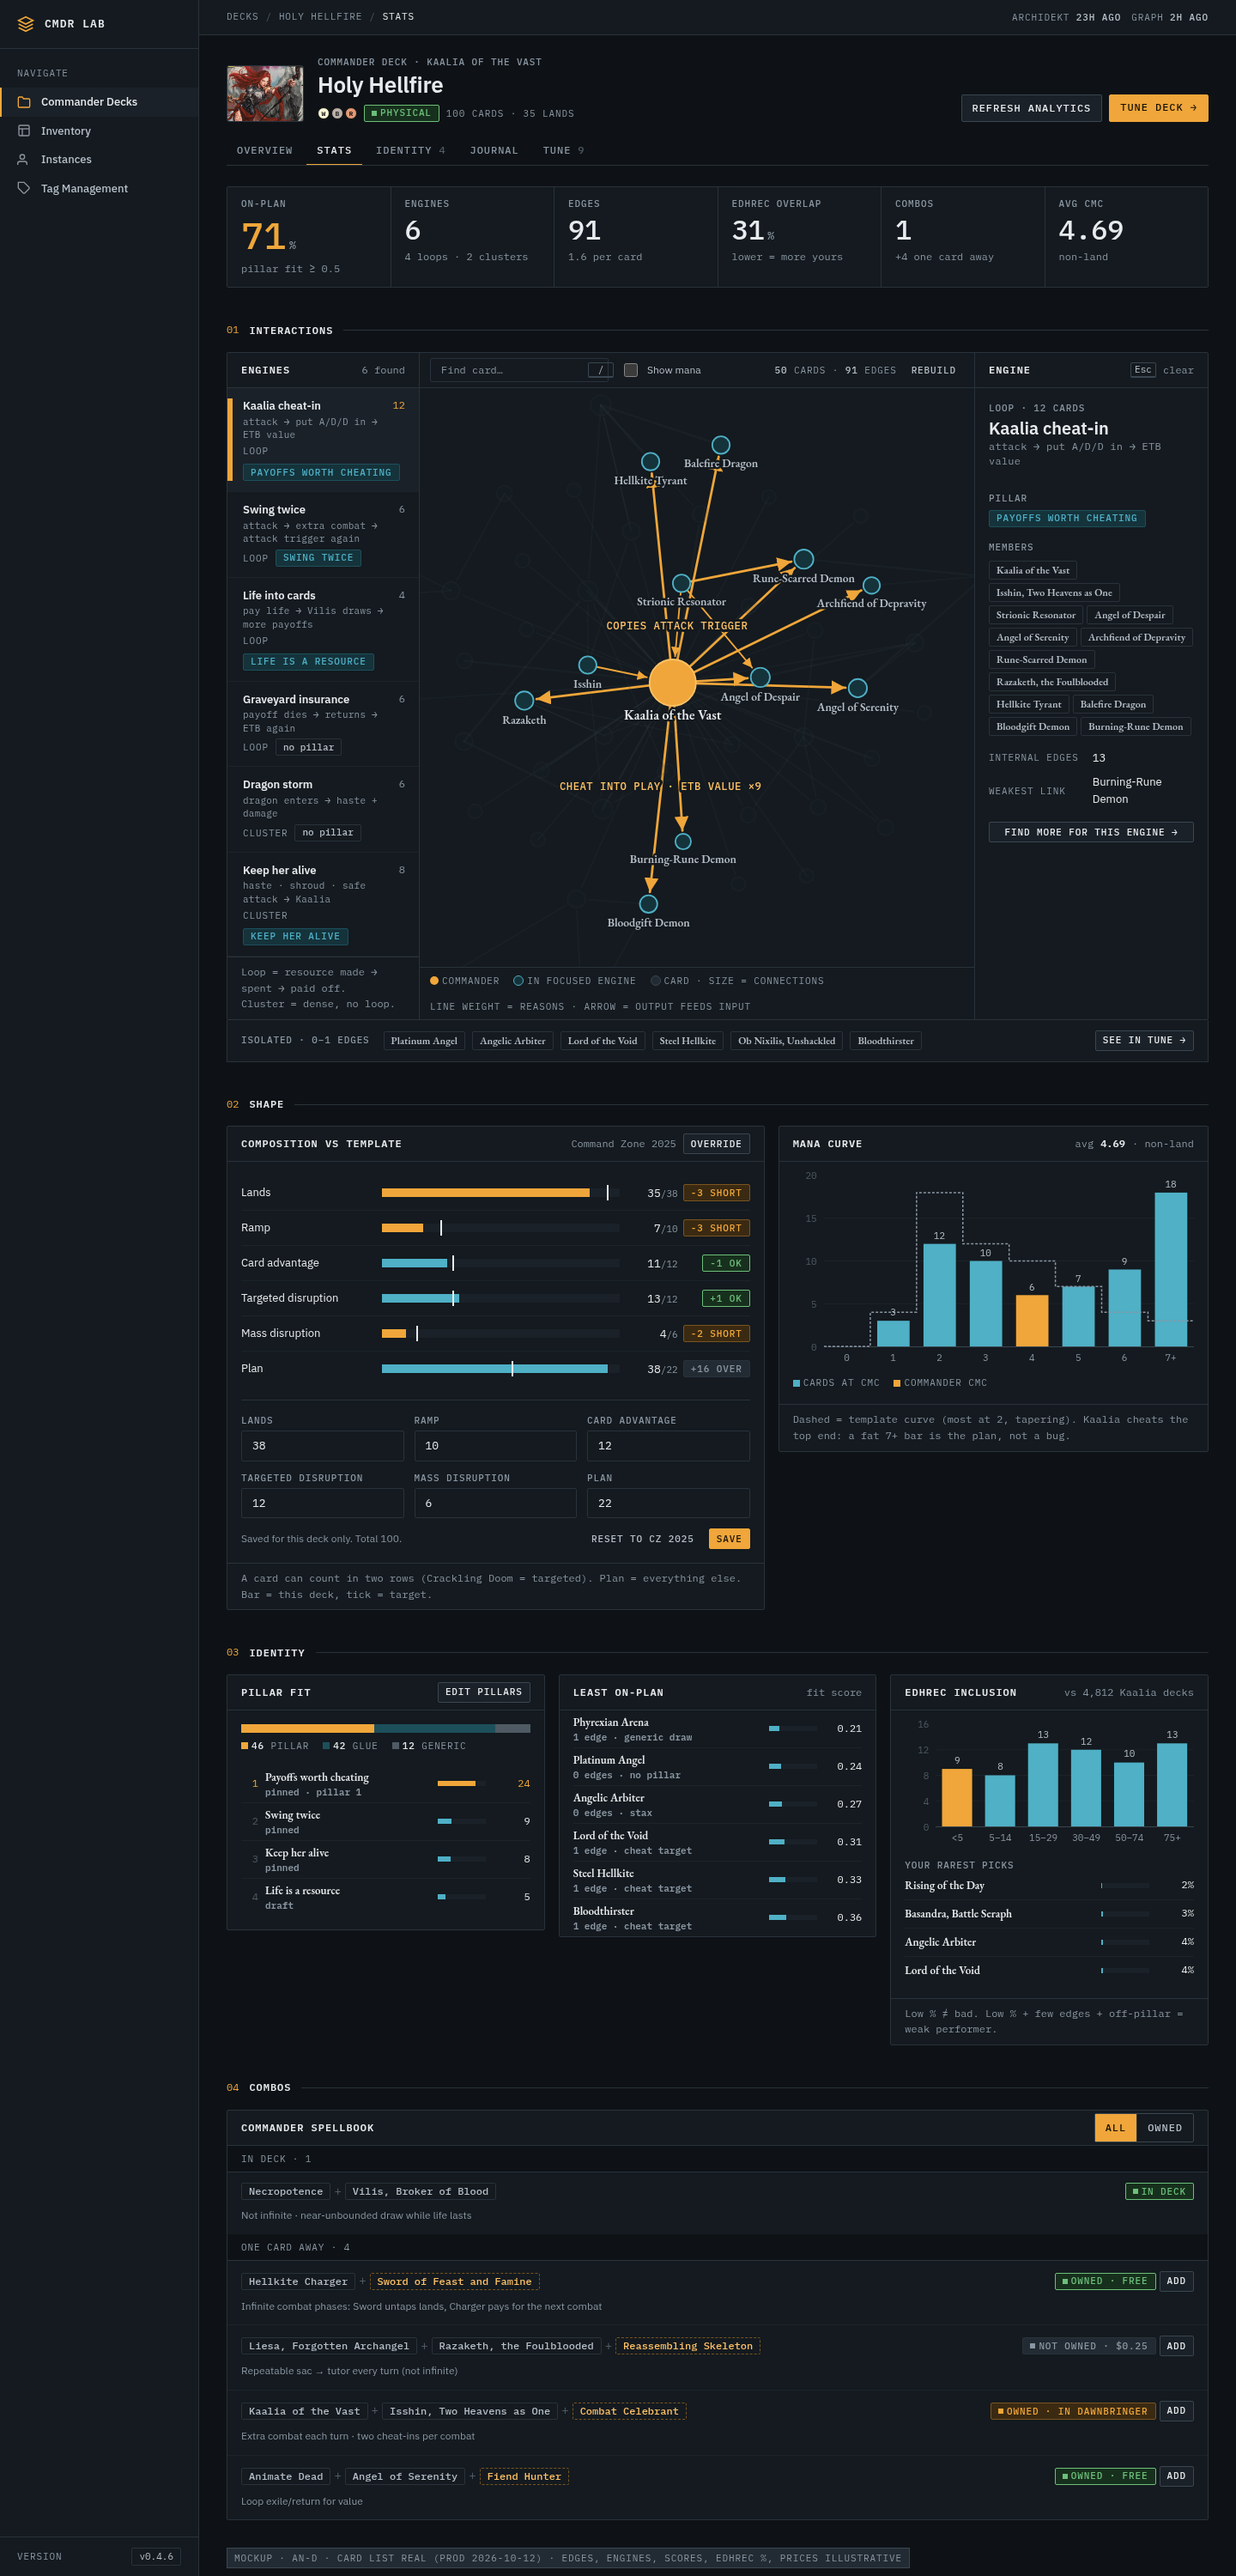
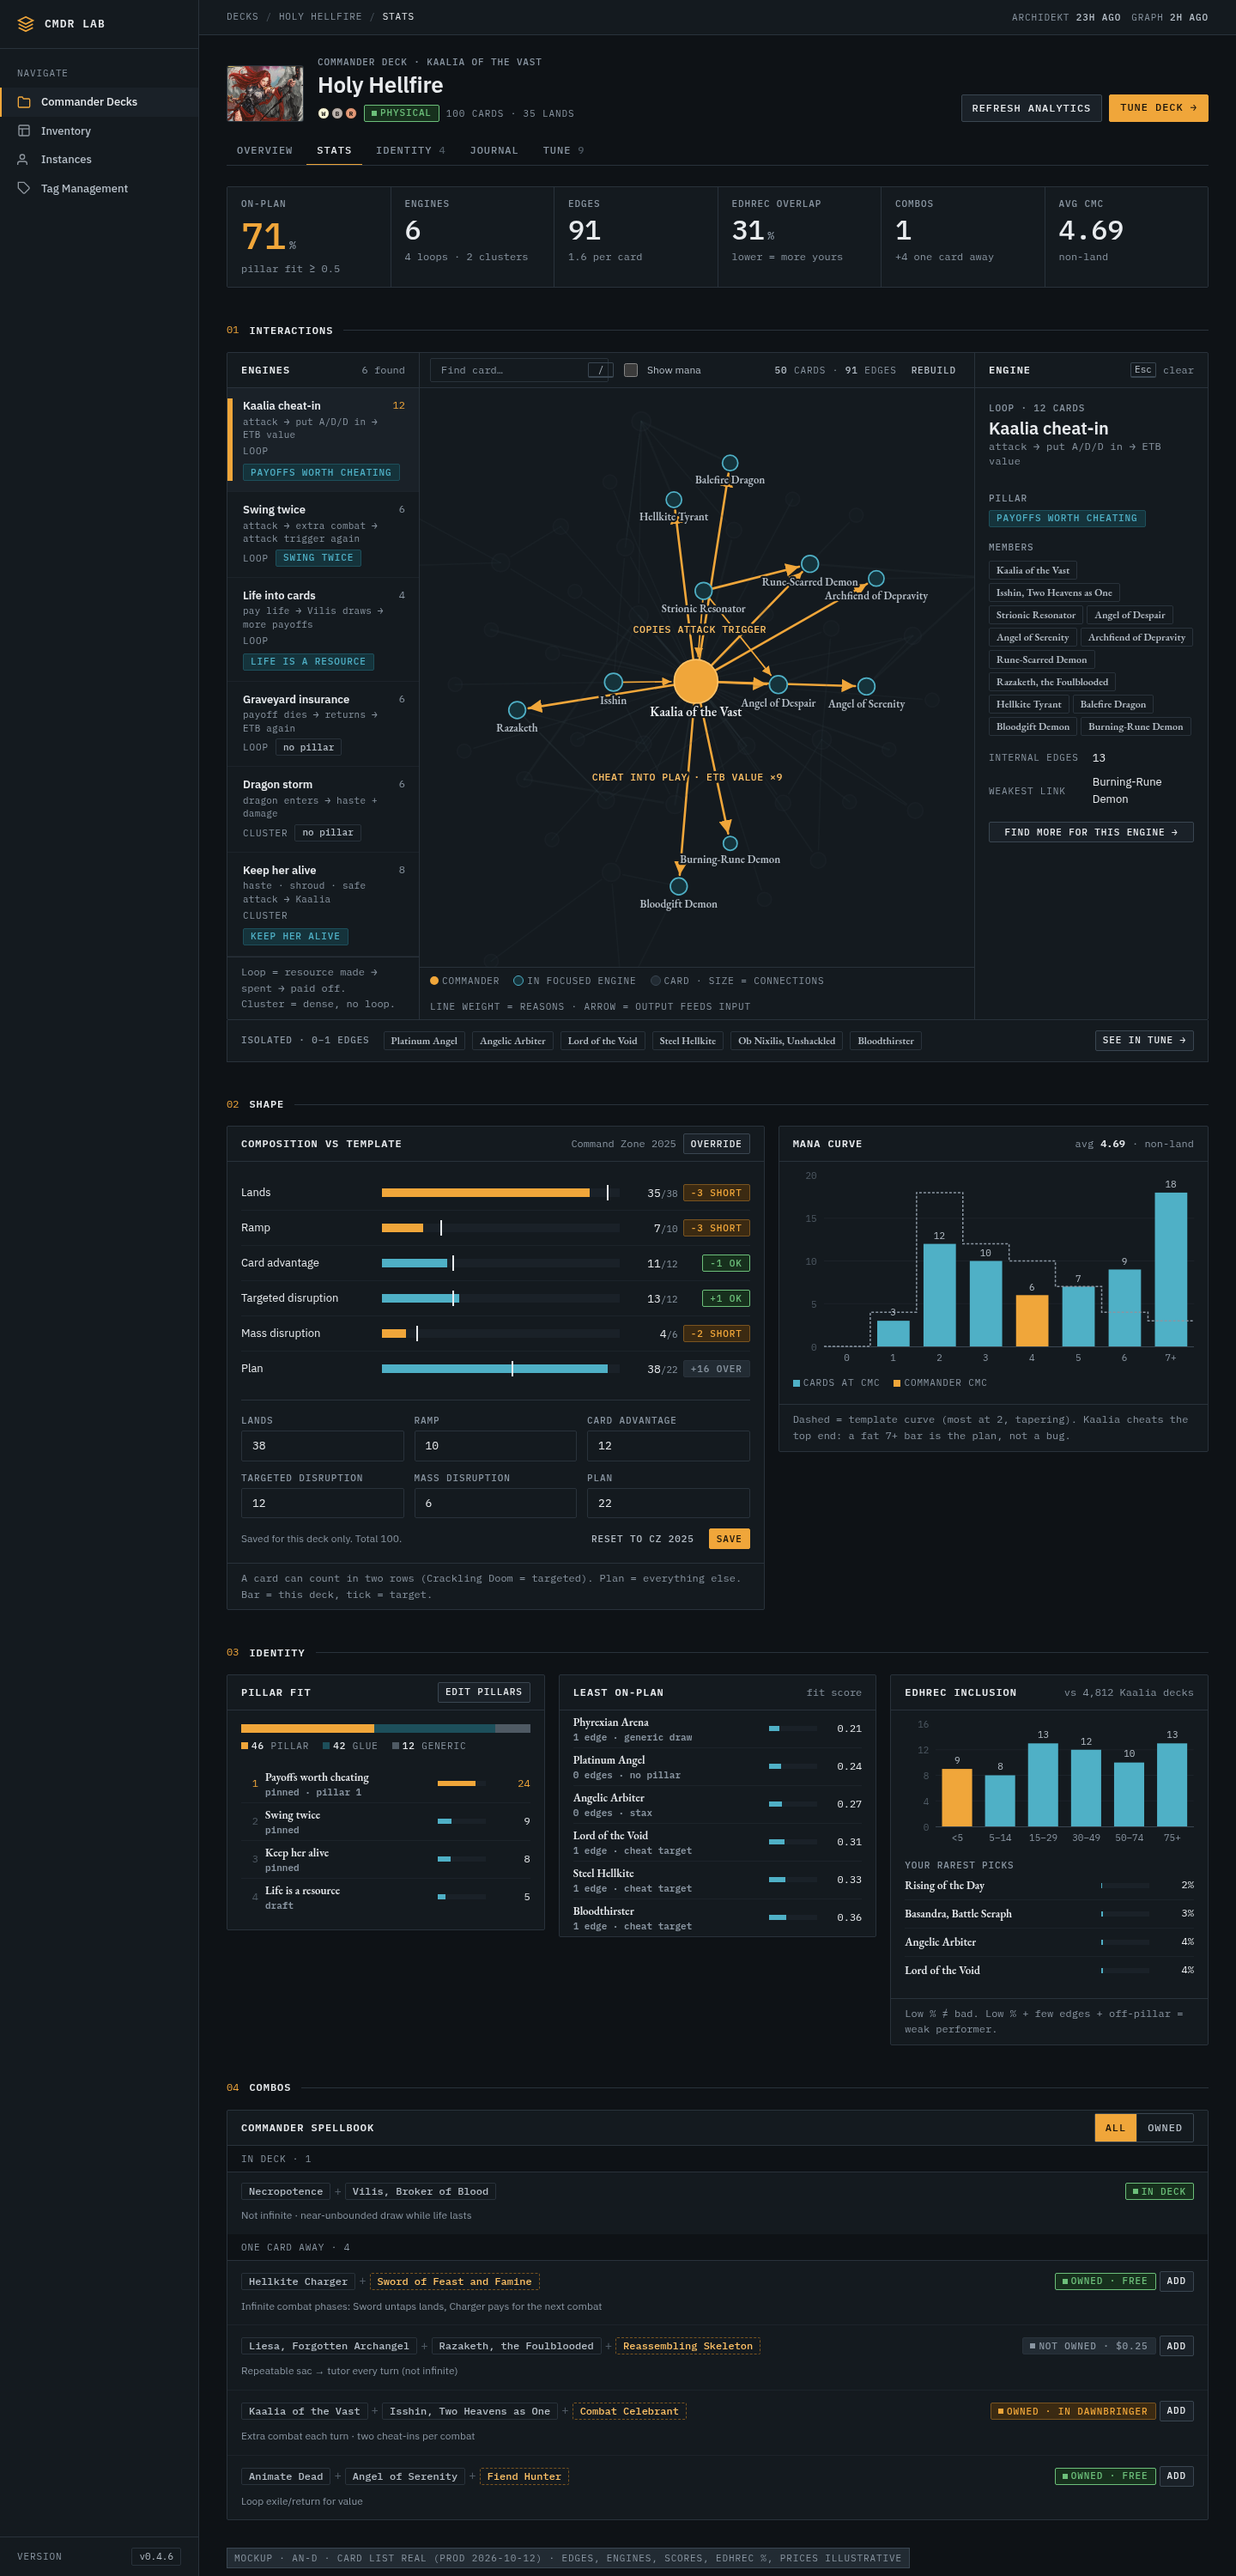
docs(design): AN-D: address review (WBR-legal tuner picks, D5 gap rule shown, hard-cap copy, degree = distinct neighbours, single-Esc clear, phone list follows engine, 1380 breakpoint, aria-live progress, win-con More…)

Changed region(s): [[0.4062, 0.155, 0.7188, 0.372]]

diff --git a/docs/design/analytics/stats.html b/docs/design/analytics/stats.html
@@ -15,7 +15,7 @@
     .graph-list { display: none; }
     .graph-list ol { list-style: none; margin: 0; padding: 0; }
     .graph-list li { padding: var(--sp-3) var(--sp-4); border-bottom: var(--stroke-faint); }
-    @media (max-width: 1180px) { .stats-row--3 { grid-template-columns: minmax(0, 1fr) minmax(0, 1fr); } .stats-row--3 > :last-child { grid-column: 1 / -1; } }
+    @media (max-width: 1380px) { .stats-row--3 { grid-template-columns: minmax(0, 1fr) minmax(0, 1fr); } .stats-row--3 > :last-child { grid-column: 1 / -1; } }
     @media (max-width: 900px) { .stats-row, .stats-row--3 { grid-template-columns: minmax(0, 1fr); } .stats-row--3 > :last-child { grid-column: auto; } }
 </style>
 </head>
@@ -160,7 +160,9 @@
         M.ENGINES = [{ id: "hub", name: hub.split(",")[0] + " hub", flow: "(real data · engines not detected yet)", kind: "cluster", pillar: null, cards: mem }].concat(M.ENGINES.slice(1, 1));
         document.querySelector(".hud-graph-toolbar .hud-freshness").innerHTML = "<b>" + Object.keys(dg).length + "</b> cards · <b>" + es.length + "</b> edges · REAL AN-1 data";
     }
-    var deg = {}; M.EDGES.forEach(function (e) { deg[e[0]] = (deg[e[0]] || 0) + e[2].length; deg[e[1]] = (deg[e[1]] || 0) + e[2].length; });
+    // degree = DISTINCT neighbours (what "N connections" means); edge WIDTH carries reasons.
+    var nb = {}; M.EDGES.forEach(function (e) { (nb[e[0]] = nb[e[0]] || {})[e[1]] = 1; (nb[e[1]] = nb[e[1]] || {})[e[0]] = 1; });
+    var deg = {}; Object.keys(nb).forEach(function (k) { deg[k] = Object.keys(nb[k]).length; });
     var nodes = Object.keys(deg).map(function (id) { return { id: id, degree: deg[id] }; });
     var edges = M.EDGES.map(function (e) { return { source: e[0], target: e[1], reasons: e[2] }; });
     var engList = document.getElementById("engines");
@@ -210,15 +212,20 @@
         var b = e.target.closest("[data-engine]"); if (!b) return;
         var on = b.getAttribute("aria-pressed") !== "true";
         engList.querySelectorAll("[data-engine]").forEach(function (x) { x.setAttribute("aria-pressed", "false"); });
-        b.setAttribute("aria-pressed", String(on)); activeEngine = on ? b.dataset.engine : null; G.focusEngine(activeEngine); inspect(null);
+        b.setAttribute("aria-pressed", String(on)); activeEngine = on ? b.dataset.engine : null; G.focusEngine(activeEngine); inspect(null); phoneList();
     });
     var gs = document.getElementById("gsearch");
     gs.addEventListener("input", function () { G.search(gs.value); });
     gs.addEventListener("keydown", function (e) { if (e.key === "Enter") { var id = G.search(gs.value); if (id) G.select(id); } });
+    function clearAll() { activeEngine = null; G.select(null); G.focusEngine(null); engList.querySelectorAll("[data-engine]").forEach(function (x) { x.setAttribute("aria-pressed", "false"); }); inspect(null); phoneList(); }
     document.addEventListener("keydown", function (e) {
-        var tag = e.target.tagName; if (tag === "INPUT" || tag === "TEXTAREA") { if (e.key === "Escape") e.target.blur(); return; }
+        var t = e.target, tag = t.tagName;
+        if (tag === "INPUT" || tag === "TEXTAREA" || tag === "SELECT" || t.isContentEditable) {
+            if (e.key === "Escape") { t.blur(); if (t === gs) { gs.value = ""; clearAll(); } } // one Esc clears search AND focus
+            return;
+        }
         if (e.key === "/") { e.preventDefault(); gs.focus(); }
-        if (e.key === "Escape") { activeEngine = null; G.select(null); G.focusEngine(null); engList.querySelectorAll("[data-engine]").forEach(function (x) { x.setAttribute("aria-pressed", "false"); }); inspect(null); }
+        if (e.key === "Escape") clearAll();
         if (e.key === "]" || e.key === "[") {
             var bs = Array.from(engList.querySelectorAll("[data-engine]")), cur = bs.findIndex(function (b) { return b.getAttribute("aria-pressed") === "true"; });
             var nx = e.key === "]" ? (cur + 1) % bs.length : (cur - 1 + bs.length) % bs.length; bs[nx].click();
@@ -226,11 +233,20 @@
     });
     // Default: first engine focused, Kaalia selected = the "aha" view on load.
     engList.querySelector("[data-engine]").click();
-    // Phone fallback list (same data as the graph, readable at 390px).
-    document.getElementById("glist").innerHTML = '<ol>' + M.ENGINES[0].cards.slice(1, 7).map(function (c) {
-        var e = M.EDGES.find(function (x) { return x[1] === c && x[0] === M.DECK.commander; }) || M.EDGES.find(function (x) { return x[0] === c || x[1] === c; });
-        return '<li><span class="hud-card-name">' + esc(c) + '</span><span class="hud-rank-sub" style="display:block">← Kaalia · ' + esc(e ? e[2].join(" · ") : "") + "</span></li>";
-    }).join("") + '</ol><div class="hud-panel-foot">Showing engine members. Full graph on a wider screen.</div>';
+    // Phone fallback list (same data as the graph, readable at 390px). Follows the active engine.
+    function phoneList() {
+        var g = M.ENGINES.find(function (x) { return x.id === activeEngine; });
+        var el = document.getElementById("glist");
+        if (!g) { el.innerHTML = '<div class="hud-panel-foot">Pick an engine above. Full graph on a wider screen.</div>'; return; }
+        var hub = g.cards[0];
+        el.innerHTML = '<ol>' + g.cards.slice(1).map(function (c) {
+            var e = M.EDGES.find(function (x) { return (x[0] === hub && x[1] === c) || (x[1] === hub && x[0] === c); }) ||
+                    M.EDGES.find(function (x) { return (x[0] === c || x[1] === c) && g.cards.indexOf(x[0] === c ? x[1] : x[0]) !== -1; });
+            var dir = e ? (e[0] === c ? "→ " : "← ") + (e[0] === c ? e[1] : e[0]).split(",")[0] : "";
+            return '<li><span class="hud-card-name">' + esc(c) + '</span><span class="hud-rank-sub" style="display:block">' + esc(dir + (e ? " · " + e[2].join(" · ") : "")) + "</span></li>";
+        }).join("") + '</ol><div class="hud-panel-foot">' + esc(g.name) + " · " + g.cards.length + " cards. Full graph on a wider screen.</div>";
+    }
+    phoneList();
 
     // ---- Composition ---------------------------------------------------
     var COMP = [["Lands", 35, 38], ["Ramp", 7, 10], ["Card advantage", 11, 12], ["Targeted disruption", 13, 12], ["Mass disruption", 4, 6], ["Plan", 38, 22]];

diff --git a/docs/design/analytics/tuner.html b/docs/design/analytics/tuner.html
@@ -112,8 +112,8 @@
         var row = function (k, v, max, low, disp) { return "<span>" + k + '</span><span class="t' + (low ? " is-low" : "") + '"><i style="width:' + Math.round(v / max * 100) + '%"></i></span><span class="v">' + disp + "</span>"; };
         return '<div class="hud-why">' + row("Edges", edges, 10, edges <= 1, edges) + row("Fit", fit, 1, fit < 0.35, fit.toFixed(2)) + row("EDHREC", edh, 100, edh < 10, edh + "%") + "</div>";
     }
-    function opt(o, pick) {
-        if (!o) return '<div class="hud-opt is-empty">No buy beats the owned pick by ≥ 0.10.<br>Good enough: keep it free.</div>';
+    function opt(o, pick, hardHidden) {
+        if (!o) return '<div class="hud-opt is-empty">' + (hardHidden ? 'Best buy hidden: over your hard cap.' : 'No buy beats the owned pick by ≥ 0.10.<br>Good enough: keep it free.') + '</div>';
         var src = o.buy ? '<span class="hud-opt-src">Buy · <b style="color:var(--text-1)">$' + o.price.toFixed(2) + "</b></span>"
                         : '<span class="hud-opt-src"><b>Owned</b> · ' + o.where + "</span>";
         return '<div class="hud-opt' + (pick ? " is-pick" : "") + (o.buy ? " is-buy" : "") + '">' + src +
@@ -123,29 +123,29 @@
     }
     var SW = [
         { cut: "Phyrexian Arena", w: [1, 0.21, 31], own: { name: "Sword of Feast and Famine", where: "box · free", score: 0.81, pillar: "Swing twice" },
-          buy: { name: "Moonshaker Cavalry", buy: true, price: 0.89, score: 0.84, pillar: "Payoffs" }, pick: "own", gap: 0.03 },
+          buy: null, pick: "own", hiddenGap: 0.03 },
         { cut: "Ob Nixilis, Unshackled", w: [1, 0.41, 18], own: { name: "Combat Celebrant", where: "in Dawnbringer", score: 0.77, pillar: "Swing twice" },
           buy: null, pick: "own" },
         { cut: "Angelic Arbiter", w: [0, 0.27, 4], own: { name: "Aurelia's Fury", where: "box · free", score: 0.52, pillar: "Payoffs" },
           buy: { name: "Moraug, Fury of Akoum", buy: true, price: 6.40, score: 0.79, pillar: "Swing twice" }, pick: "buy", gap: 0.27 },
         { cut: "Platinum Angel", petLocked: true },
         { cut: "Steel Hellkite", w: [1, 0.33, 12], own: { name: "Scourge of the Throne", where: "box · free", score: 0.70, pillar: "Swing twice" },
-          buy: { name: "Old Gnawbone", buy: true, price: 22.50, score: 0.88, pillar: "Payoffs", cap: ["over soft cap $15", "signal"] }, pick: "own", gap: 0.18, soft: true },
+          buy: { name: "Neheb, the Eternal", buy: true, price: 18.50, score: 0.88, pillar: "Swing twice", cap: ["over soft cap $15", "signal"] }, pick: "own", gap: 0.18, soft: true },
         { cut: "Bloodthirster", w: [1, 0.36, 9], own: { name: "Hellkite Charger", where: "already in deck", score: 0, pillar: "" },
-          buy: { name: "Jeweled Lotus", buy: true, price: 68.00, score: 0.91, pillar: "Keep her alive", cap: ["over hard cap $40", "danger"] }, pick: "own", hard: true }
+          buy: null, pick: "own", hard: true }
     ];
     document.getElementById("swaps").innerHTML = SW.map(function (s, i) {
         if (s.petLocked) return '<li class="hud-swap" style="grid-template-columns:minmax(0,1fr) auto"><span><span class="hud-card-name" style="color:var(--text-2)">♥ ' + s.cut + '</span> <span class="hud-field-hint">· pet · weakest card in the deck (0 edges, fit 0.24) but pets are never cut. Shown once so you know it was considered.</span></span><a class="hud-btn hud-btn--sm hud-btn--ghost" href="journal.html#j-pets">Edit pets</a></li>';
         if (s.hard) { s.buy = null; }
         var gapLine = s.gap != null ? '<div class="hud-gapline">Gap <b>' + (s.gap >= 0 ? "+" : "") + s.gap.toFixed(2) + "</b> buy vs owned" +
             (s.pick === "buy" ? HUD.chip("worth buying", "signal") : HUD.chip("owned is good enough", "ok")) + "</div>" : "";
-        var just = s.soft ? '<div class="hud-justify"><b>Soft cap:</b> Old Gnawbone ($22.50) beats the owned Scourge by 0.18 and doubles as ramp off combat. Shown because the gap is big; picked owned because you set soft $15.</div>' : "";
+        var just = s.soft ? '<div class="hud-justify"><b>Soft cap:</b> Neheb, the Eternal ($18.50) beats the owned Scourge by 0.18: post-combat mana for the next cheat-in. Shown because the gap is big; picked owned because you set soft $15.</div>' : "";
         var hard = s.hard ? '<div class="hud-gapline">1 better buy hidden <b>· over hard cap $40</b>' + HUD.chip("hard cap", "neutral") + "</div>" : "";
         var ownOpt = s.own.score ? opt(s.own, s.pick === "own") : '<div class="hud-opt is-empty">No owned card scores ≥ 0.50 for this slot.</div>';
         return '<li class="hud-swap' + (i === 0 ? " is-current" : "") + (i === 1 ? " is-accepted" : "") + '" tabindex="-1">' +
             '<div class="hud-swap-out"><span class="hud-label">Cut</span><span class="hud-card-name">' + s.cut + "</span>" + why(s.w[0], s.w[1], s.w[2]) + "</div>" +
             '<span class="hud-swap-arrow" aria-hidden="true">→</span>' +
-            '<div class="hud-opts">' + ownOpt + (s.hard ? opt(null) : opt(s.buy, s.pick === "buy")) + gapLine + just + hard + "</div>" +
+            '<div class="hud-opts">' + ownOpt + opt(s.buy, s.pick === "buy", s.hard) + gapLine + just + hard + "</div>" +
             '<div class="hud-swap-act">' + (i === 1 ? '<span class="hud-chip hud-chip--ok">Accepted</span><button class="hud-btn hud-btn--sm hud-btn--ghost" type="button">Undo</button>'
                 : '<button class="hud-btn hud-btn--sm hud-btn--primary" type="button">Accept</button>' + (s.buy && s.pick !== "buy" ? '<button class="hud-btn hud-btn--sm" type="button">Buy instead</button>' : "") +
                   '<button class="hud-btn hud-btn--sm hud-btn--ghost" type="button">Dismiss</button>') + "</div></li>";

diff --git a/docs/design/analytics/journal.html b/docs/design/analytics/journal.html
@@ -32,7 +32,7 @@
                     <div><span class="hud-label">On-plan</span><b>64% → <span class="up">71%</span></b></div>
                 </div>
             </div>
-            <div class="hud-progress">
+            <div class="hud-progress" aria-live="polite">
                 <span class="hud-label">3 of 8 answered</span>
                 <div class="hud-progress-bar" aria-hidden="true"><i class="is-done"></i><i class="is-done"></i><i class="is-changed"></i><i></i><i></i><i></i><i></i><i></i></div>
                 <span class="hud-freshness"><span class="hud-kbd">y</span> still true · <span class="hud-kbd">c</span> change · <span class="hud-kbd">j</span>/<span class="hud-kbd">k</span> move</span>
@@ -122,10 +122,12 @@
                         <input type="radio" name="wcp" id="w2"><label for="w2">Combo</label>
                         <input type="radio" name="wcp" id="w3"><label for="w3">Attrition</label>
                         <input type="radio" name="wcp" id="w4"><label for="w4">Cmdr dmg</label>
+                        <button type="button" class="hud-btn hud-btn--sm hud-btn--ghost hud-seg-more" aria-expanded="false" aria-controls="wcMore" onclick="var m=document.getElementById('wcMore');m.hidden=!m.hidden;this.setAttribute('aria-expanded',String(!m.hidden));this.textContent=m.hidden?'More… 4':'Less'">More… 4</button>
+                        <span id="wcMore" class="hud-seg-rest" hidden>
                         <input type="radio" name="wcp" id="w5"><label for="w5">Alt win</label>
                         <input type="radio" name="wcp" id="w6"><label for="w6">Burn</label>
                         <input type="radio" name="wcp" id="w7"><label for="w7">Lockout</label>
-                        <input type="radio" name="wcp" id="w8"><label for="w8">Mill</label>
+                        <input type="radio" name="wcp" id="w8"><label for="w8">Mill</label></span>
                     </span></div>
                 <div class="hud-field-row">
                     <div class="hud-field"><span class="hud-field-label" id="wcS">Secondary</span>

diff --git a/docs/design/analytics/analytics.css b/docs/design/analytics/analytics.css
@@ -485,3 +485,7 @@ main.main-content { padding-bottom: var(--sp-16); }
 }
 .hud-pillar.is-hero .hud-chip { --chip-fg: var(--text-on-signal); --chip-bg: transparent; --chip-line: var(--text-on-signal); color: var(--text-on-signal); background: transparent; border-color: var(--text-on-signal); }
 @media (max-width: 640px) { .hud-stat-foot { white-space: normal; } }
+/* "More…" inside a segmented control: the overflow options join the strip when expanded. */
+.hud-seg-rest:not([hidden]) { display: contents; }
+.hud-seg-rest[hidden] { display: none; }
+.hud-seg .hud-seg-more { height: 2rem; border: 0; border-left: var(--stroke); border-radius: 0; }
